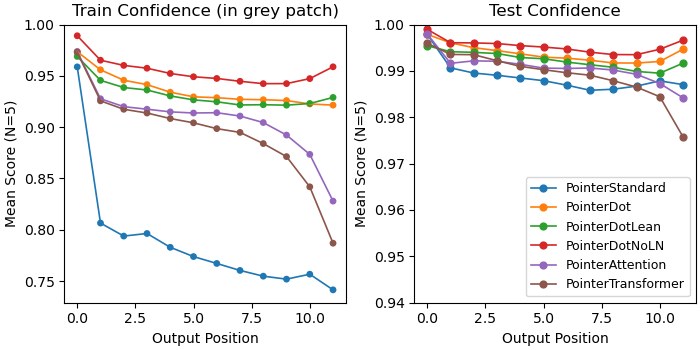
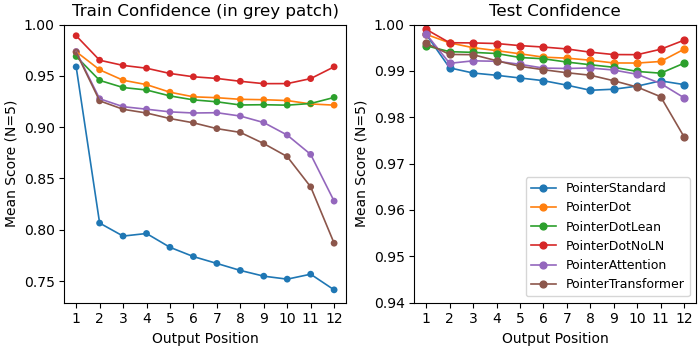
Plot updates

diff --git a/experiments/pointerArchitectureComparison_uneven.py b/experiments/pointerArchitectureComparison_uneven.py
@@ -304,11 +304,13 @@ def plotResults(results, args):
     fig, ax = plt.subplots(1, 2, figsize=(7, 3.5), layout='constrained')
     for idx, name in enumerate(POINTER_METHODS):
         mnTrainScore = torch.nanmean(results['trainScoreByPos'][trainInspect, :, idx], dim=(0,2))
-        ax[0].plot(range(numPos), mnTrainScore, color=cmap(idx), lw=1.2, label=name)
+        ax[0].plot(range(1,numPos+1), mnTrainScore, color=cmap(idx), lw=1.2, label=name)
     for idx, name in enumerate(POINTER_METHODS):
         mnTrainScore = torch.nanmean(results['trainScoreByPos'][trainInspect, :, idx], dim=(0,2))
-        ax[0].scatter(range(numPos), mnTrainScore, color=cmap(idx), marker='o', s=24, edgecolor='none')
+        ax[0].scatter(range(1,numPos+1), mnTrainScore, color=cmap(idx), marker='o', s=24, edgecolor='none')
+    ax[0].set_xlim(0.5, numPos+0.5)
     ax[0].set_ylim(None, 1)
+    ax[0].set_xticks(range(1,numPos+1))
     ax[0].set_xlabel('Output Position')
     ax[0].set_ylabel('Mean Score'+n_string)
     ax[0].set_title(f"Train Confidence (in grey patch)")
@@ -316,7 +318,10 @@ def plotResults(results, args):
     
     for idx, name in enumerate(POINTER_METHODS):
         mnTestScore = torch.nanmean(results['testScoreByPos'][:, :, idx], dim=(0,2))
-        ax[1].plot(range(numPos), mnTestScore, color=cmap(idx), lw=1.2, marker='o', markersize=np.sqrt(24), label=name)
+        ax[1].plot(range(1,numPos+1), mnTestScore, color=cmap(idx), lw=1.2, marker='o', markersize=np.sqrt(24), label=name)
+    ax[1].set_xlim(0.5, numPos+0.5)
+    ax[1].set_ylim(None, 1)
+    ax[1].set_xticks(range(1,numPos+1))
     ax[1].set_xlabel('Output Position')
     ax[1].set_ylabel('Mean Score'+n_string)
     ax[1].set_title('Test Confidence')

diff --git a/docs/pointerArchitectureComparison.md b/docs/pointerArchitectureComparison.md
@@ -175,10 +175,12 @@ to show the initial learning curves for each network in more detail.
 
 The right panel shows the testing performance, after returning held-out 
 dominoes to the input data and averaging across 100 epochs for all 5 networks
-of each architecture. All new architectures except for the "Dot No Layer Norm"
-(DotNoLN) perform better than the standard pointer layer. Additionally, the 
-variance in test performance is lower for the new architectures, especially 
-for the two networks that use multi-context attention (PointerAttention and
+of each architecture. The horizontal bar indicates the average and the 
+vertical line indicates the minimum and maximum performance for each network
+type. All new architectures except for the "Dot No Layer Norm" (DotNoLN) 
+perform better than the standard pointer layer. Additionally, the variance in
+test performance is lower for the new architectures, especially for the two 
+networks that use multi-context attention (PointerAttention and
 PointerTransformer).
 
 Note: the DotNoLN networks learn fastest, see the training inset, however, 
@@ -225,13 +227,21 @@ for getting the most out of a network with a limited time and money budget.
 
 ### Variations in Task and Learning Algorithm
 I also trained the networks on a task where the hand size (number of tokens to
-sort per batch element) changes from 4-12 randomly on each batch. The training
-and testing results are [here](media/pointerArchitectureComparison_uneven.png)
-and the position dependent confidence plots are 
-[here](media/pointerArchitectureComparison_uneven_confidence.png). Networks
-with new pointer layers still learn the task faster and have higher confidence
-but the variance of the multi-context attention networks reduces their average
-test performance. 
+sort per batch element) changes from 4-12 randomly on each batch. The training 
+and testing results are here:
+
+![uneven performance](media/pointerArchitectureComparison_uneven.png)
+
+The position dependent confidence results are here:
+![uneven confidence](media/pointerArchitectureComparison_uneven_confidence.png) 
+
+Networks with new pointer layers still learn the task faster and have higher 
+confidence. However, whereas the multi-context attention networks 
+("PointerAttention" and "PointerTransformer") performed best in the previous
+task, their variance in this task reduces the average test performance. This
+appears to be due to a specific inability to maintain confidence in output 
+for the longest sequences, although 2/5 of the PointerTransformer networks
+have flat position dependent confidence curves (data not shown). 
 
 For results on the supervised learning task, see the training and testing
 [results](media/sl_pointerArchitectureComparison.png) and the plot of the 
